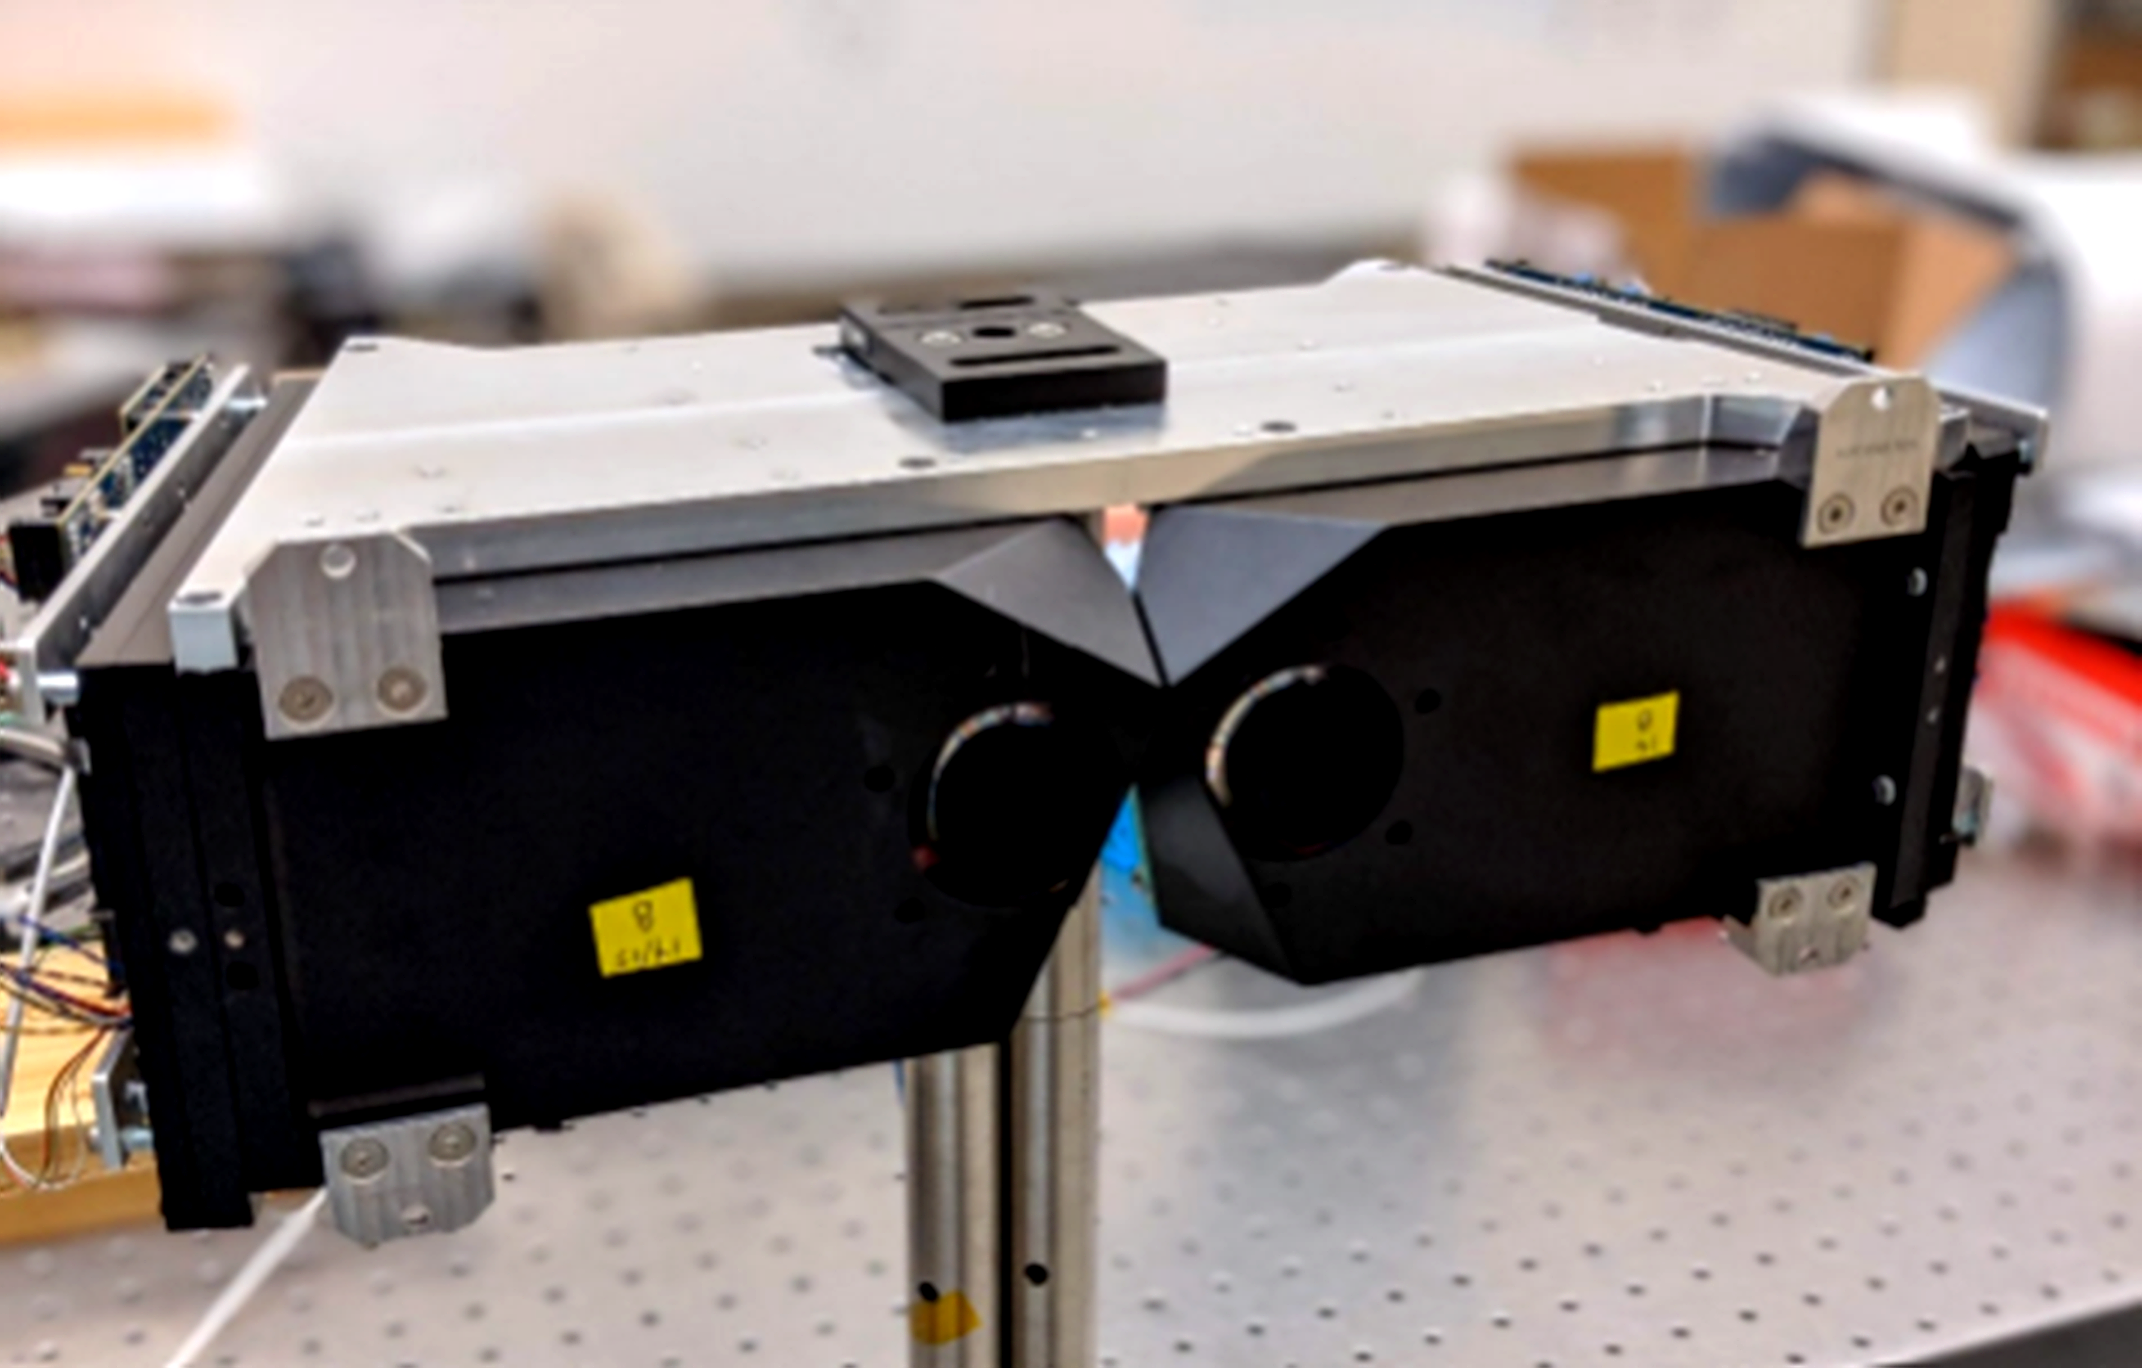
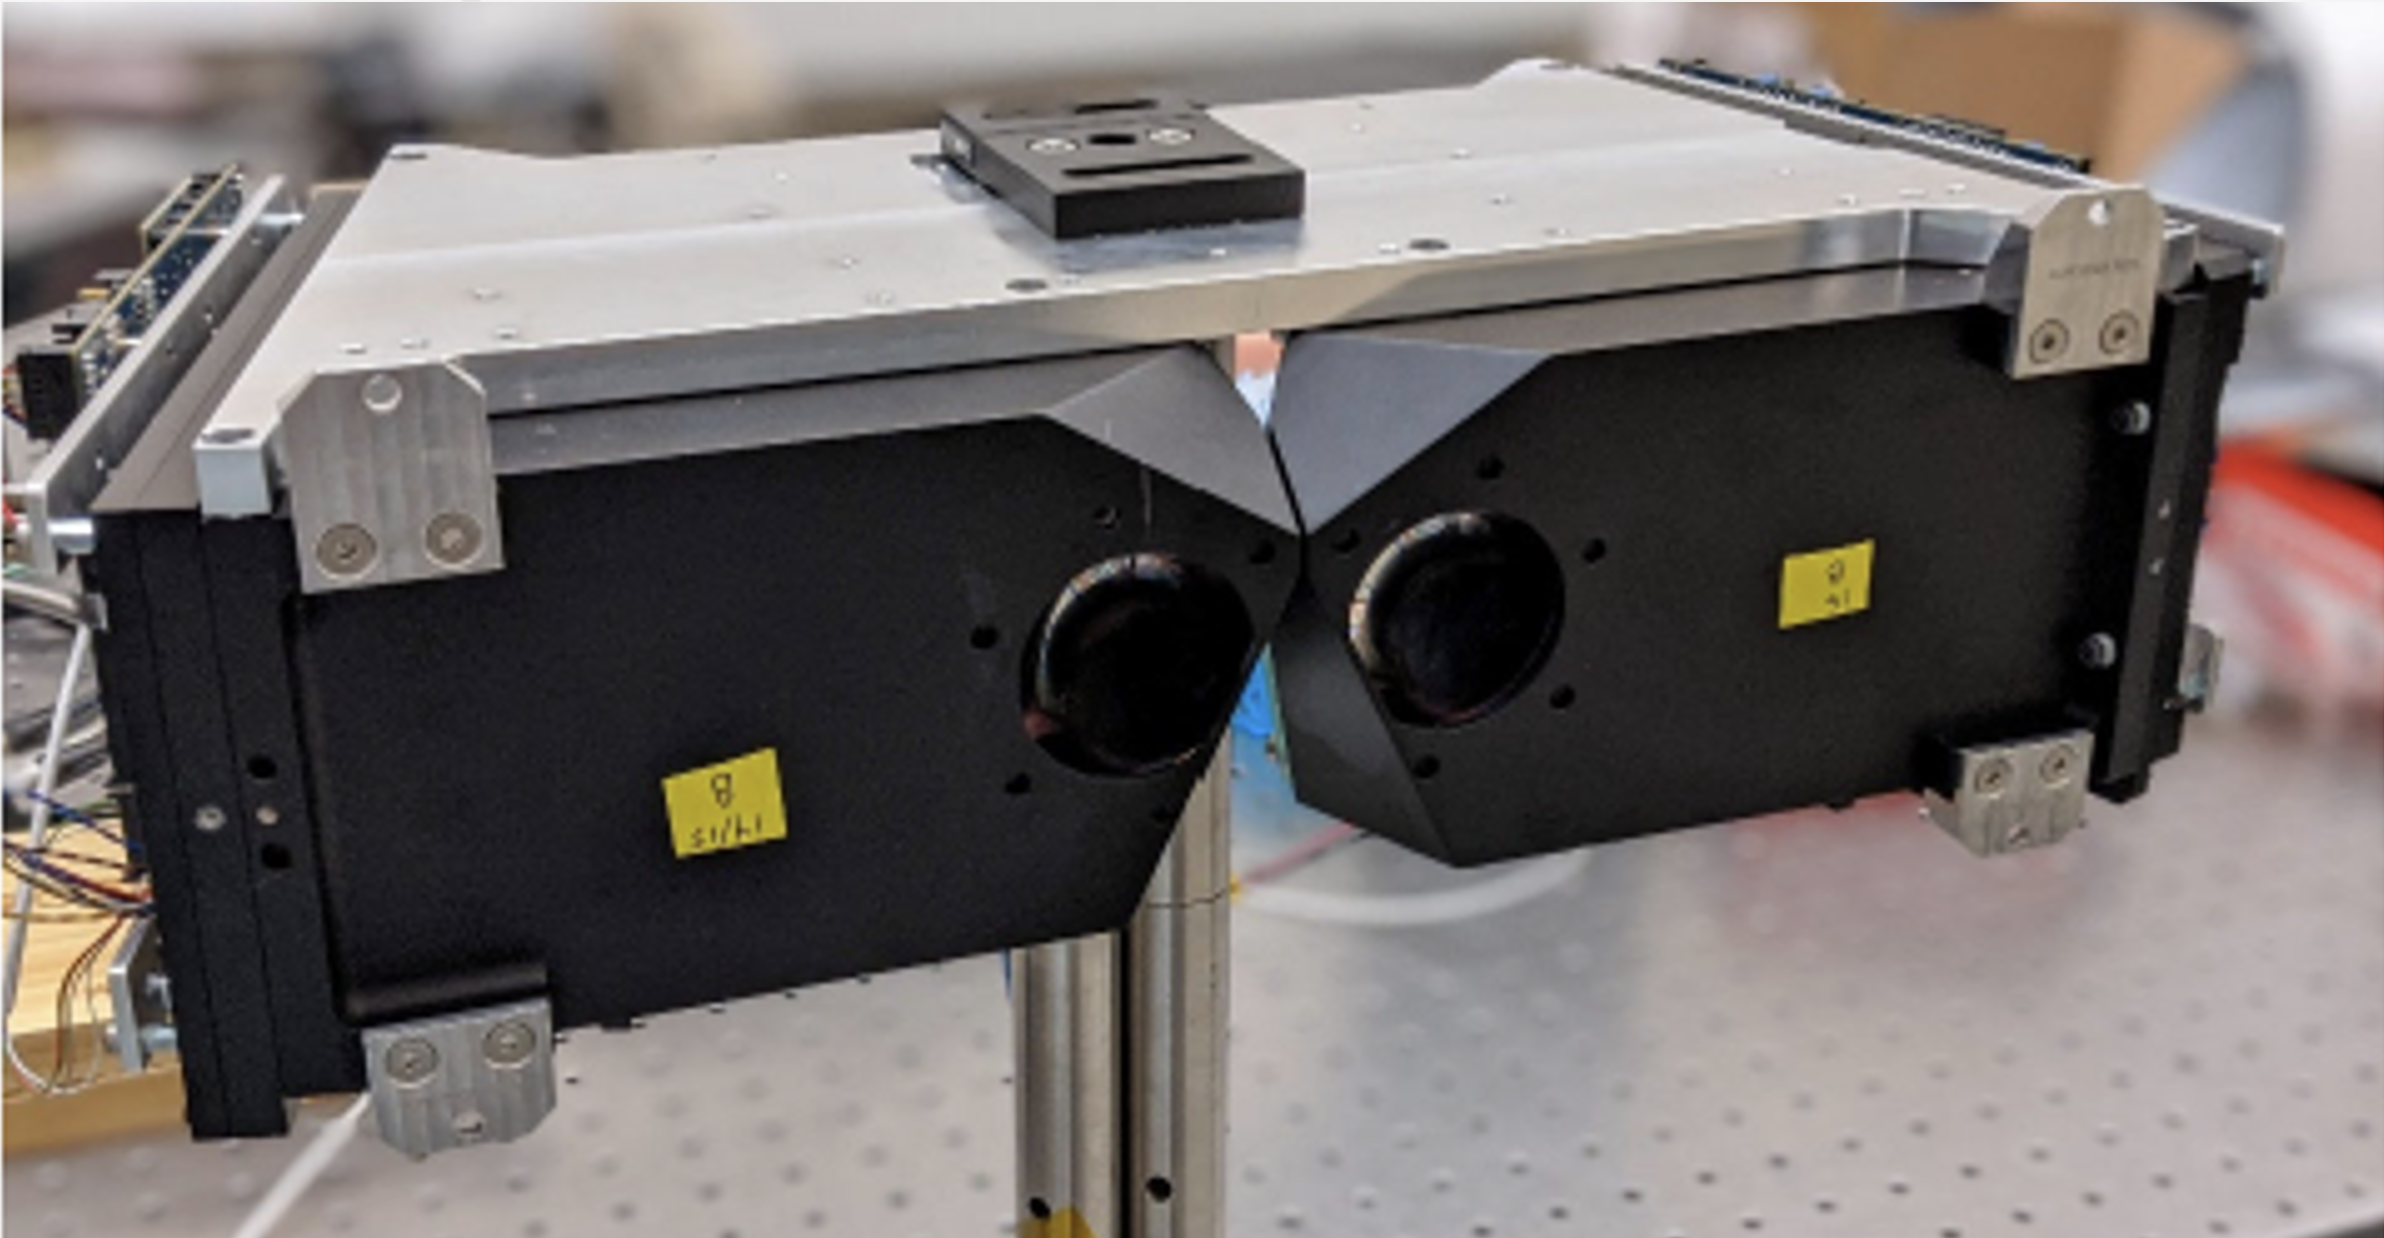
Further image size adjustments and refresh image 17

diff --git a/IT_setup_procedure.html b/IT_setup_procedure.html
@@ -58,8 +58,8 @@
                 (like SolidWorks or Altium) as shown in <span class="figure-ref">the figure below</span>.</p>
 
             <figure>
-                <img src="assets/images/cropped/image25_cropped.png" alt="Figure &quot;Windchill repositories&quot; part 1">
-                <img src="assets/images/cropped/image26_cropped.png" alt="Figure &quot;Windchill repositories&quot; part 2">
+                <img src="assets/images/cropped/image25_cropped.png" alt="Figure &quot;Windchill repositories&quot; part 1" style="max-height: 350px;">
+                <img src="assets/images/cropped/image26_cropped.png" alt="Figure &quot;Windchill repositories&quot; part 2" style="max-height: 350px;">
                 <figcaption>Microsoft files repository (top) and CAD files repository
                     (bottom)</figcaption>
             </figure>
@@ -95,8 +95,8 @@
 
             <figure>
                 <div class="image-row">
-                    <img src="assets/images/cropped/image27_cropped.png" alt="Figure &quot;Setup workflow diagram&quot; part 1" style="max-height: 500px;">
-                    <img src="assets/images/cropped/image28_cropped.png" alt="Figure &quot;Setup workflow diagram&quot; part 2" style="max-height: 500px;">
+                    <img src="assets/images/cropped/image27_cropped.png" alt="Figure &quot;Setup workflow diagram&quot; part 1" style="max-height: 700px;">
+                    <img src="assets/images/cropped/image28_cropped.png" alt="Figure &quot;Setup workflow diagram&quot; part 2" style="max-height: 700px;">
                 </div>
                 <figcaption>Visio diagram for laptop setup for CAD users; new employees
                     (left) and existing

diff --git a/lap_ox.html b/lap_ox.html
@@ -92,8 +92,8 @@
 
             <figure>
                 <div class="image-row">
-                    <img src="assets/images/cropped/image22_cropped.png" alt="Figure &quot;DVT CAD representation&quot; part 1" style="max-height: 337.5px;">
-                    <img src="assets/images/cropped/image23_cropped.png" alt="Figure &quot;DVT CAD representation&quot; part 2" style="max-height: 337.5px;">
+                    <img src="assets/images/cropped/image22_cropped.png" alt="Figure &quot;DVT CAD representation&quot; part 1" style="max-height: 472.5px;">
+                    <img src="assets/images/cropped/image23_cropped.png" alt="Figure &quot;DVT CAD representation&quot; part 2" style="max-height: 472.5px;">
                 </div>
                 <figcaption>Durable (left), disposable (right) DVT CAD representation
                 </figcaption>

diff --git a/max_particle_velocity.html b/max_particle_velocity.html
@@ -71,7 +71,7 @@
                 it was a unique material property that could be calculated as shown in <span class="figure-ref">the figure below</span>.</p>
 
             <figure>
-                <img src="assets/images/cropped/image1_cropped.png" alt="Figure &quot;vmax calculation&quot;" style="width: 50%;">
+                <img src="assets/images/cropped/image1_cropped.png" alt="Figure &quot;vmax calculation&quot;" style="width: 25%;">
                 <figcaption>Solving for v<sub>max</sub> as a function of yield
                     stress
                     (σ<sub>y</sub>), elastic modulus (E), and

diff --git a/intra_ox.html b/intra_ox.html
@@ -135,7 +135,7 @@
                 to hold without the lid needing to be closed with too much hand force.</p>
 
             <figure>
-                <img src="assets/images/cropped/image11_cropped.png" alt="Figure &quot;O-Ring cross-section&quot;">
+                <img src="assets/images/cropped/image11_cropped.png" alt="Figure &quot;O-Ring cross-section&quot;" style="width: 70%;">
                 <figcaption>Intra.Ox O-ring cross-section shown with localized
                     compression mimicking Pelican design</figcaption>
             </figure>
